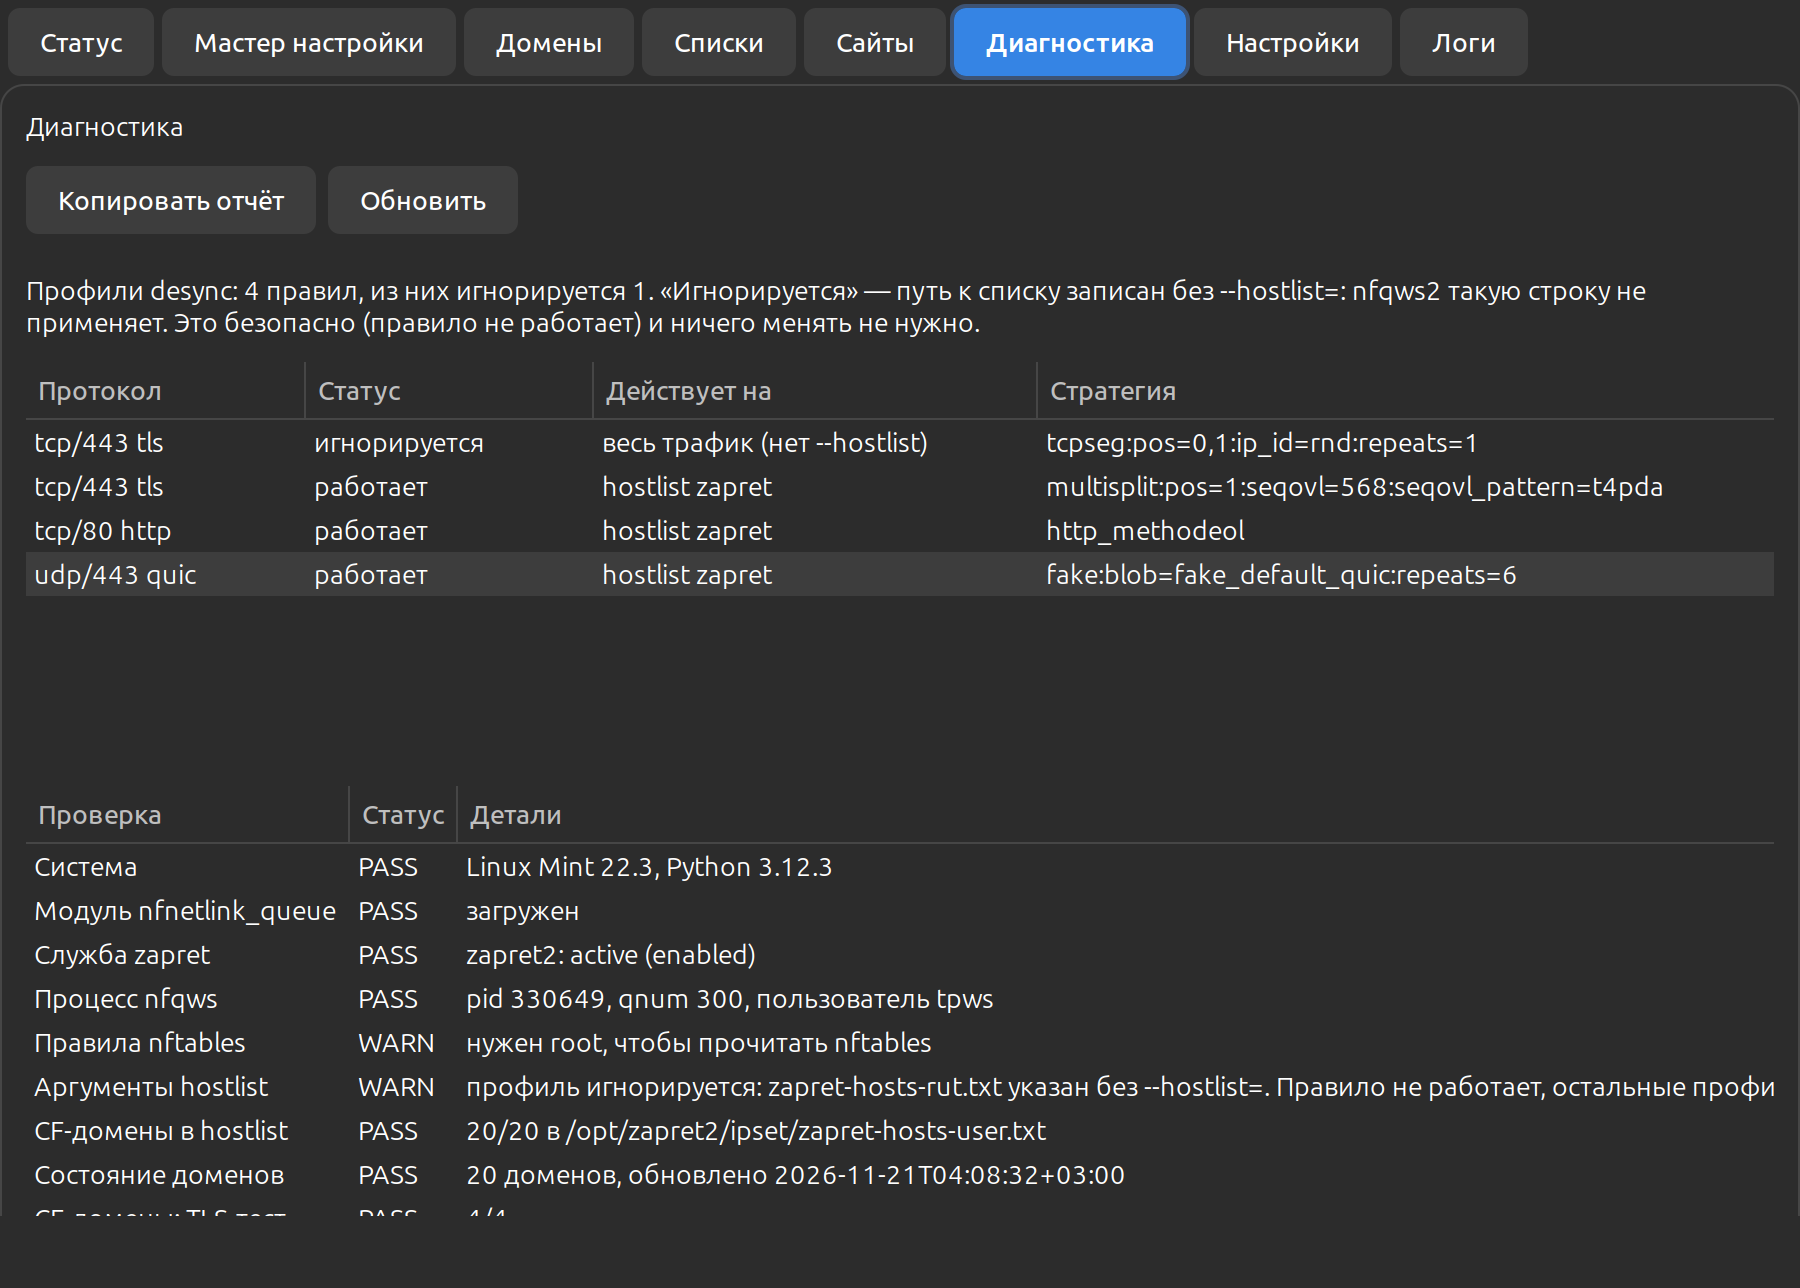
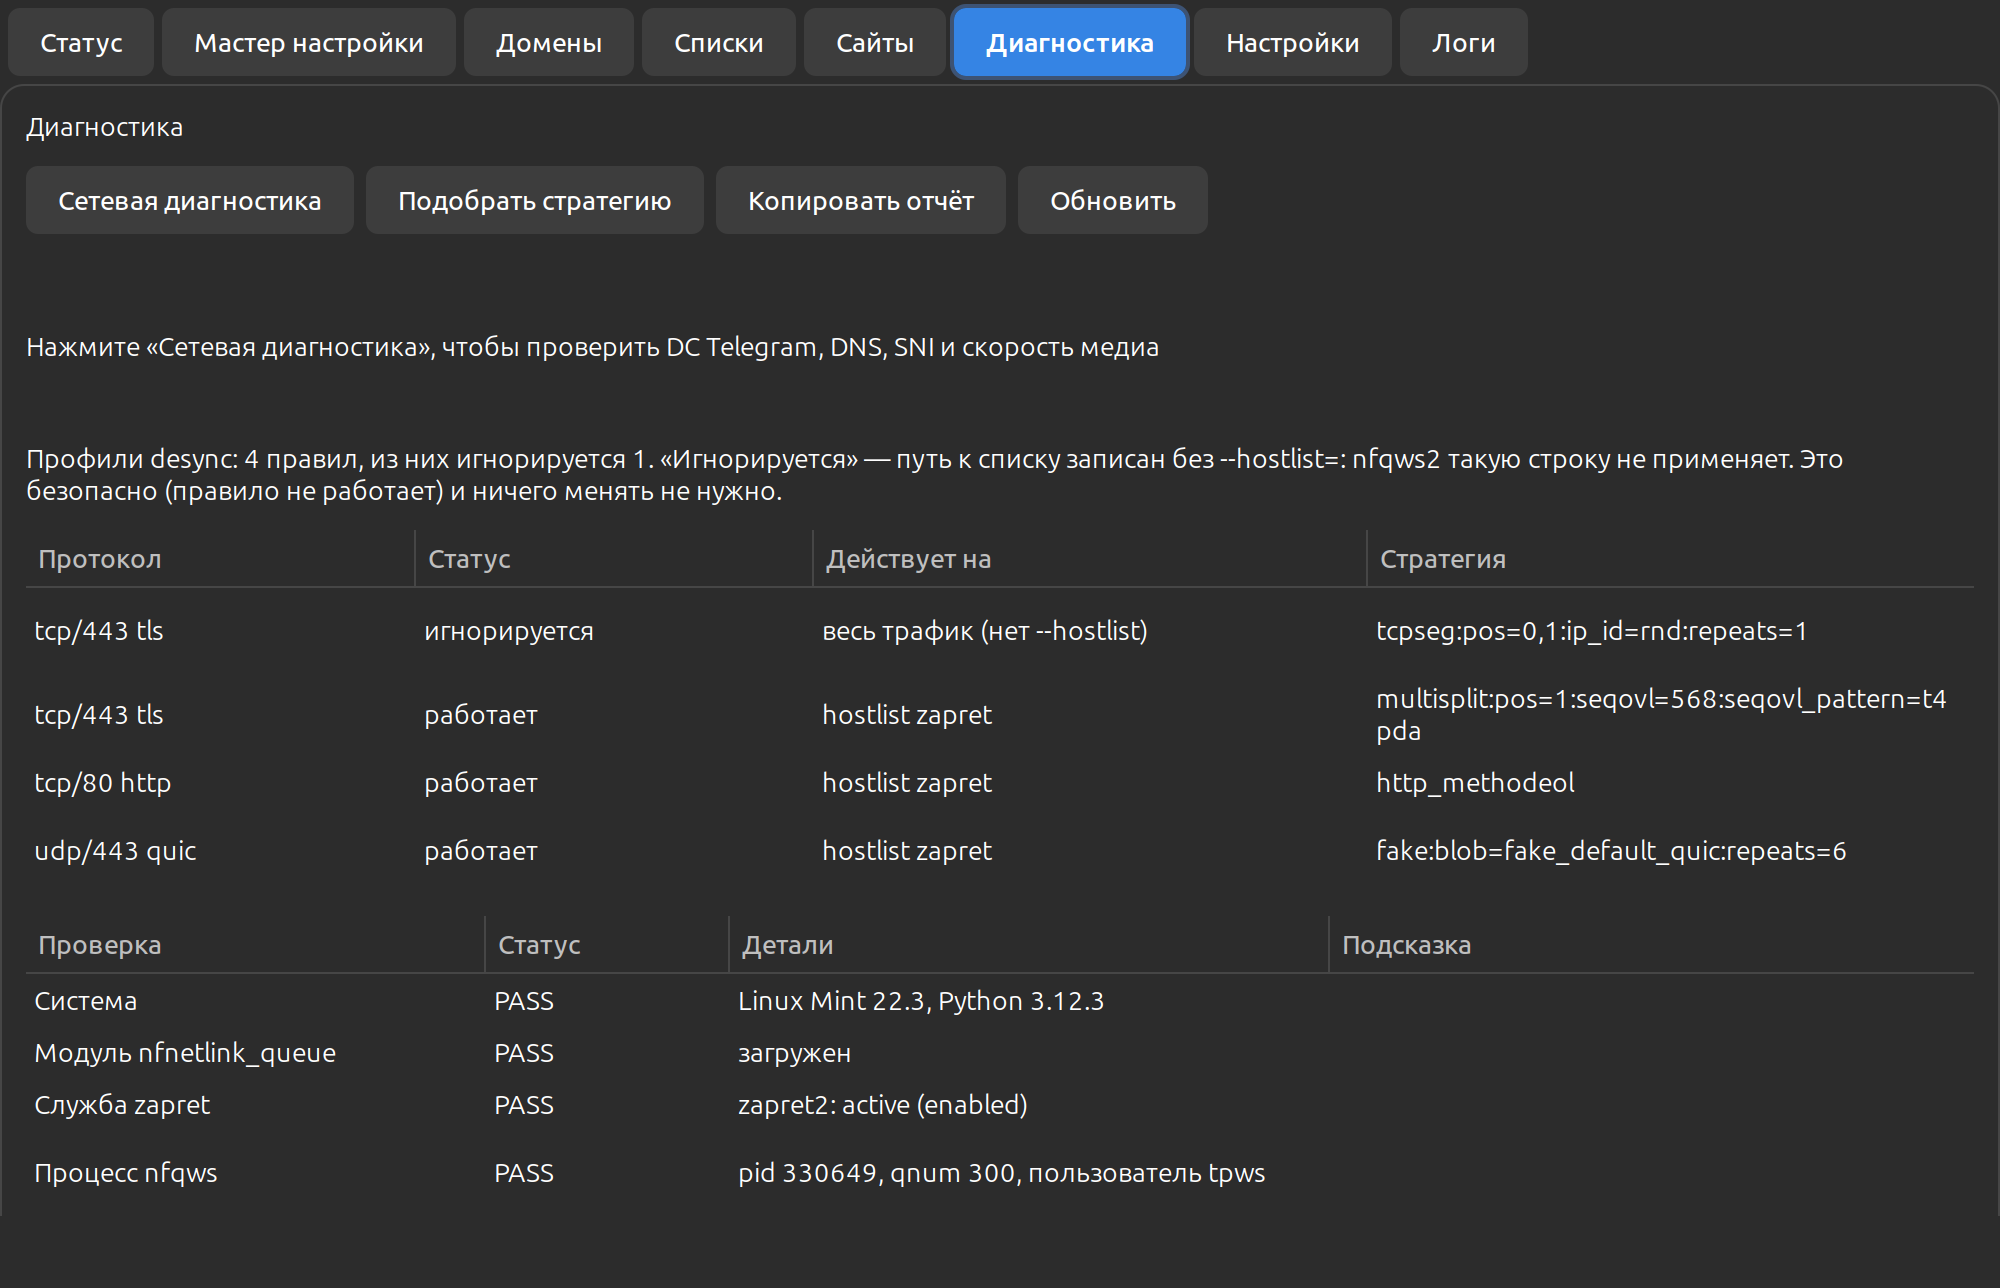
Tables: wrap long text instead of ellipsis

diff --git a/src/linfix/gtk/screens/common.py b/src/linfix/gtk/screens/common.py
@@ -101,19 +101,31 @@ def table_from_store(
 ) -> Gtk.TreeView:
     """Таблица из ListStore.
 
-    Текст в ячейках обрезается с «…», а не растягивает таблицу за окно:
-    иначе длинные строки (стратегии, детали проверок) уводят правые колонки
-    за край. Полный текст виден в подсказке при наведении.
+    Длинный текст переносится на следующую строку внутри ячейки (а не
+    обрезается «…»): иначе важные детали (стратегии, подсказки) теряются.
+    Ширина переноса обновляется вместе с шириной колонки, высота строки
+    растёт автоматически.
     """
 
     tree = tree or Gtk.TreeView(model=store)
+    tree.set_fixed_height_mode(False)
     for index, column_title in enumerate(columns):
         renderer = Gtk.CellRendererText()
-        renderer.set_property("ellipsize", Pango.EllipsizeMode.END)
+        renderer.set_property("wrap-mode", Pango.WrapMode.WORD_CHAR)
+        renderer.set_property("wrap-width", 120)
+        # Без лишних вертикальных отступов: при переносе строки иначе
+        # получаются огромные «поля» и таблица раздувается.
+        renderer.set_property("ypad", 4)
         column = Gtk.TreeViewColumn(column_title, renderer, text=index)
         column.set_expand(True)
         column.set_min_width(0)
         column.set_resizable(True)
+        # Перенос должен совпадать с фактической шириной колонки, иначе
+        # текст уйдёт за границу или будет переноситься слишком рано.
+        def _sync_wrap(col, _pspec, cell=renderer) -> None:
+            cell.props.wrap_width = max(col.get_width() - 12, 60)
+
+        column.connect("notify::width", _sync_wrap)
         tree.append_column(column)
     if tooltip_column is not None:
         tree.set_tooltip_column(tooltip_column)

diff --git a/tests/test_gtk.py b/tests/test_gtk.py
@@ -463,8 +463,8 @@ class DoctorTablesTests(unittest.TestCase):
         self.assertTrue(screen.net_hint.get_visible())
         app.window.destroy()
 
-    def test_columns_ellipsize(self) -> None:
-        """Длинный текст не должен растягивать таблицу за окно."""
+    def test_columns_wrap_instead_of_truncate(self) -> None:
+        """Длинный текст переносится, а не обрезается точками."""
 
         from linfix.gtk.app import NetFixApp
         from gi.repository import Pango
@@ -476,6 +476,11 @@ class DoctorTablesTests(unittest.TestCase):
             for column in tree.get_columns():
                 renderer = column.get_cells()[0]
                 self.assertEqual(
-                    renderer.get_property("ellipsize"), Pango.EllipsizeMode.END
+                    renderer.get_property("wrap-mode"), Pango.WrapMode.WORD_CHAR
+                )
+                self.assertGreater(renderer.get_property("wrap-width"), 0)
+                # Обрезка «…» больше не используется.
+                self.assertEqual(
+                    renderer.get_property("ellipsize"), Pango.EllipsizeMode.NONE
                 )
         app.window.destroy()

diff --git a/src/linfix/__init__.py b/src/linfix/__init__.py
@@ -2,7 +2,7 @@
 
 from __future__ import annotations
 
-__version__ = "0.4.3"
+__version__ = "0.4.4"
 APP_NAME = "linfix"
 
 __all__ = ["__version__", "APP_NAME"]

diff --git a/README.md b/README.md
@@ -137,7 +137,7 @@ linfix guard on|off   # переключить
 ### Из .deb
 
 ```bash
-sudo apt install ./linfix_0.4.3_all.deb
+sudo apt install ./linfix_0.4.4_all.deb
 ```
 
 Затем запустите **LinFix** из меню (или `linfix-gui`), откройте

diff --git a/packaging/debian/README.md b/packaging/debian/README.md
@@ -19,7 +19,7 @@ make deb
 ## Установка
 
 ```sh
-sudo apt install ./dist/linfix_0.4.3_all.deb
+sudo apt install ./dist/linfix_0.4.4_all.deb
 ```
 
 Зависимости: `python3-gi`, `gir1.2-gtk-3.0`, `nftables`, `curl`,
